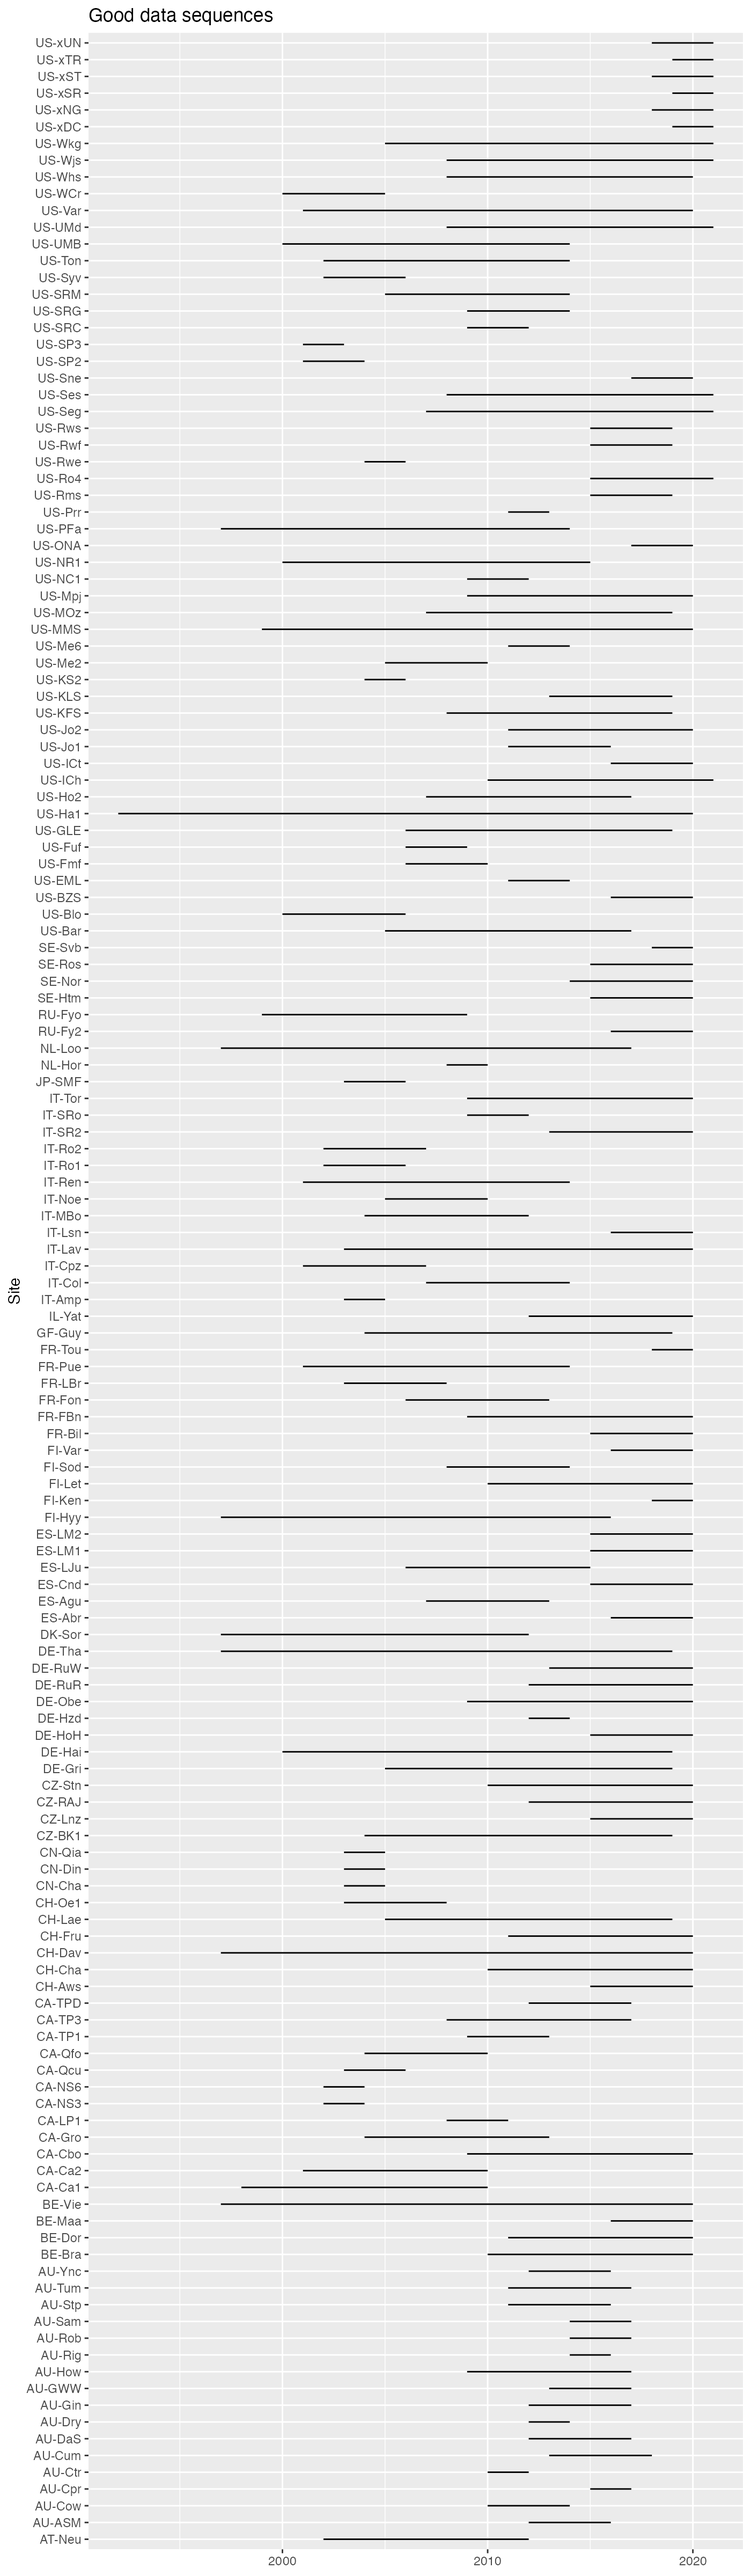
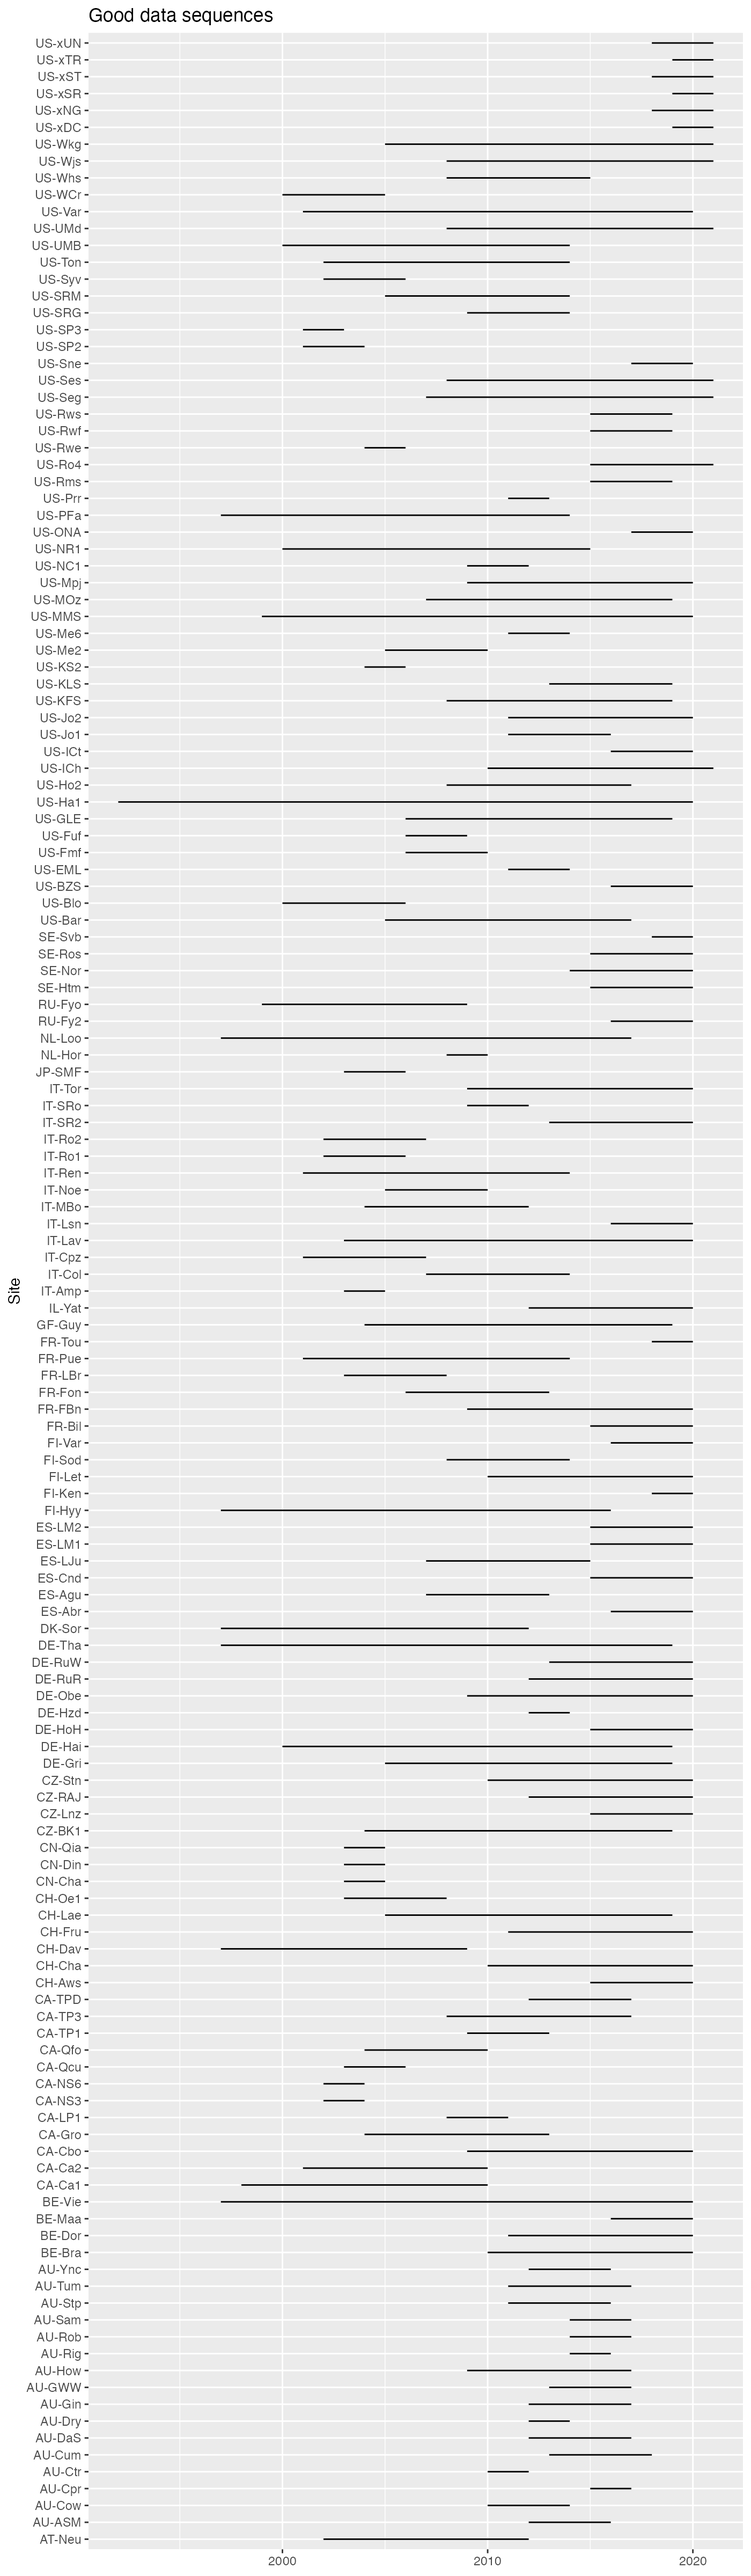
Deploying to gh-pages from @ geco-bern/FluxDataKit@43fb25847bb99ab8b02abf943fa82933c5a5315b 🚀

diff --git a/articles/04_data_use.html b/articles/04_data_use.html
@@ -160,15 +160,15 @@ to 399,310 data points of daily data.</p>
 <div class="sourceCode" id="cb3"><pre class="downlit sourceCode r">
 <code class="sourceCode R"><span><span class="co"># number of sites</span></span>
 <span><span class="fu"><a href="https://rdrr.io/r/base/nrow.html" class="external-link">nrow</a></span><span class="op">(</span><span class="va">sites</span><span class="op">)</span></span></code></pre></div>
-<pre><code><span><span class="co">## [1] 150</span></span></code></pre>
+<pre><code><span><span class="co">## [1] 149</span></span></code></pre>
 <div class="sourceCode" id="cb5"><pre class="downlit sourceCode r">
 <code class="sourceCode R"><span><span class="co"># number of site-years</span></span>
 <span><span class="fu"><a href="https://rdrr.io/r/base/sum.html" class="external-link">sum</a></span><span class="op">(</span><span class="va">sites</span><span class="op">$</span><span class="va">nyears_gpp</span><span class="op">)</span></span></code></pre></div>
-<pre><code><span><span class="co">## [1] 1266</span></span></code></pre>
+<pre><code><span><span class="co">## [1] 1244</span></span></code></pre>
 <div class="sourceCode" id="cb7"><pre class="downlit sourceCode r">
 <code class="sourceCode R"><span><span class="co"># number of data points (days)</span></span>
 <span><span class="fu"><a href="https://rdrr.io/r/base/sum.html" class="external-link">sum</a></span><span class="op">(</span><span class="va">sites</span><span class="op">$</span><span class="va">nyears_gpp</span><span class="op">)</span> <span class="op">*</span> <span class="fl">365</span></span></code></pre></div>
-<pre><code><span><span class="co">## [1] 462090</span></span></code></pre>
+<pre><code><span><span class="co">## [1] 454060</span></span></code></pre>
 </div>
 <div class="section level3">
 <h3 id="load-data">Load data<a class="anchor" aria-label="anchor" href="#load-data"></a>
